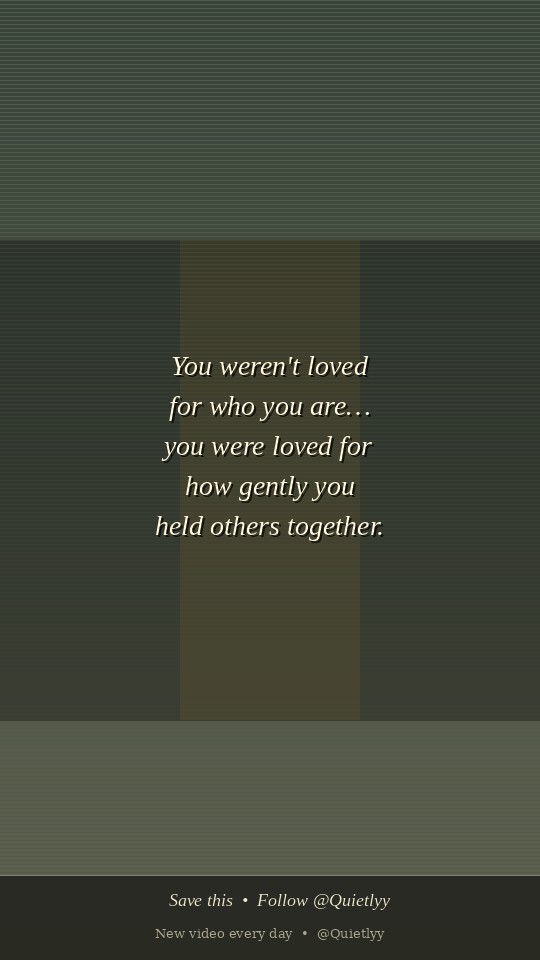
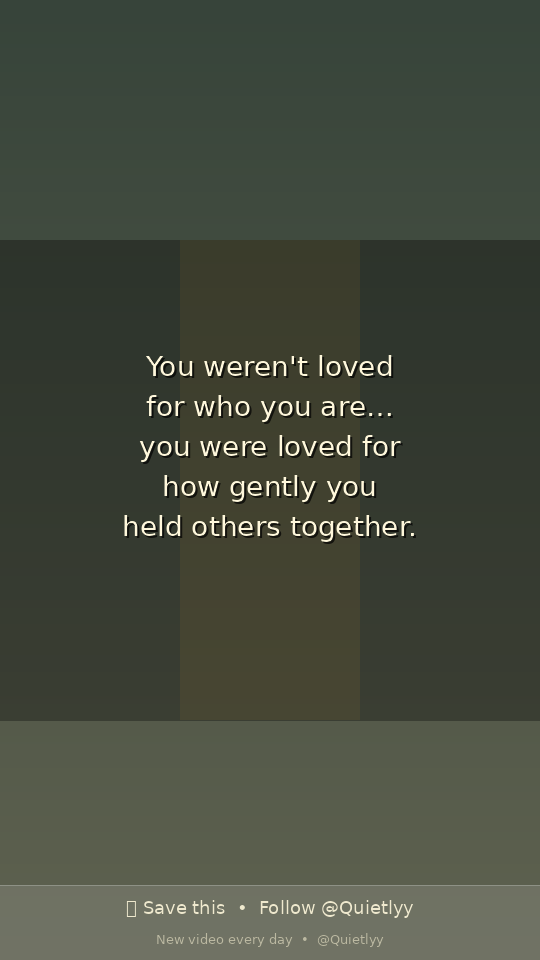
Win11 Acrylic glass pill: color-tinted blur + tight bottom margin
- Sample average color behind pill region → lighten/desaturate it
  for the tinted overlay (matches image color like Win11 Acrylic)
- GaussianBlur radius 14 behind pill, radius 12 behind CTA bar
- Reduced MARGIN 22→12px so pill sits tight to the bottom-right corner
- CTA bar also uses acrylic tint (sampled from bar region)
- Updated preview images in assets/previews/

https://claude.ai/code/session_018a9DgoDkRwRWf8uTuTieLK

Changed region(s): [[0.0, 0.0, 1.0, 0.125], [0.0, 0.9062, 1.0, 1.0], [0.2074, 0.375, 0.7704, 0.5625]]

diff --git a/scripts/compose_video.py b/scripts/compose_video.py
@@ -123,43 +123,60 @@ def _draw_cta_overlay(img):
 
 def _draw_follow_button(img):
     """
-    True frosted-glass 'Follow ↑' pill — bottom-right, panels 1+ only (not thumbnail).
-    1. Blurs the background region behind the pill (the 'frost')
-    2. Adds semi-transparent white overlay + visible white border
-    3. White text on top
+    Windows 11 Acrylic-style frosted-glass pill — bottom-right, panels 1+ only.
+    - Blurs the region behind the pill (Gaussian radius 14)
+    - Samples the average color of that region → tints the overlay with it
+      (like Win11 Acrylic: glass picks up the color behind it, not flat white)
+    - Thin bright border for edge definition
+    - Tight margin — pill sits close to the bottom edge
     """
     from PIL import ImageFilter
+    import colorsys
+
     draw_img = img.copy().convert("RGBA") if img.mode != "RGBA" else img.copy()
 
     btn_font = get_font(22)
     label = "Follow ↑"
-    tmp_draw = ImageDraw.Draw(draw_img)
-    bbox = tmp_draw.textbbox((0, 0), label, font=btn_font)
-    bw = bbox[2] - bbox[0]
-    bh = bbox[3] - bbox[1]
+    tmp = ImageDraw.Draw(draw_img)
+    bbox = tmp.textbbox((0, 0), label, font=btn_font)
+    bw, bh = bbox[2] - bbox[0], bbox[3] - bbox[1]
 
-    PAD_X, PAD_Y, MARGIN, RADIUS = 18, 10, 22, 16
+    PAD_X, PAD_Y, MARGIN, RADIUS = 16, 8, 12, 14  # tight margin → close to edge
     x0 = WIDTH - bw - PAD_X * 2 - MARGIN
     y0 = HEIGHT - bh - PAD_Y * 2 - MARGIN
     x1 = WIDTH - MARGIN
     y1 = HEIGHT - MARGIN
 
-    # Step 1 — blur the background region behind the pill (frost)
+    # Step 1 — Gaussian blur on background region
     region = draw_img.convert("RGB").crop((x0, y0, x1, y1))
-    blurred = region.filter(ImageFilter.GaussianBlur(radius=10))
+    blurred = region.filter(ImageFilter.GaussianBlur(radius=14))
+
+    # Step 2 — sample average color of the blurred region for tint
+    blurred_small = blurred.resize((1, 1))
+    avg_r, avg_g, avg_b = blurred_small.getpixel((0, 0))[:3]
+    # Lighten the sampled color slightly for the overlay (Win11 Acrylic brightening)
+    h, s, v = colorsys.rgb_to_hsv(avg_r / 255, avg_g / 255, avg_b / 255)
+    v = min(1.0, v + 0.30)  # brighten
+    s = max(0.0, s - 0.15)  # slightly desaturate for glass feel
+    tr, tg, tb = colorsys.hsv_to_rgb(h, s, v)
+    tint = (int(tr * 255), int(tg * 255), int(tb * 255))
+
+    # Step 3 — paste blurred region back
     rgb = draw_img.convert("RGB")
     rgb.paste(blurred, (x0, y0))
     draw_img = rgb.convert("RGBA")
 
-    # Step 2 — white glass overlay + border on top of blur
+    # Step 4 — tinted glass overlay + border
     overlay = Image.new("RGBA", draw_img.size, (0, 0, 0, 0))
     draw = ImageDraw.Draw(overlay)
-    draw.rounded_rectangle([x0, y0, x1, y1], radius=RADIUS, fill=(255, 255, 255, 80))
     draw.rounded_rectangle([x0, y0, x1, y1], radius=RADIUS,
-                            outline=(255, 255, 255, 180), width=2)
-    # Step 3 — white text
+                            fill=(*tint, 90))          # color-matched tint
+    draw.rounded_rectangle([x0, y0, x1, y1], radius=RADIUS,
+                            outline=(255, 255, 255, 160), width=2)  # bright border
+
+    # Step 5 — white text
     draw.text((x0 + PAD_X, y0 + PAD_Y - bbox[1]), label,
-              font=btn_font, fill=(255, 255, 255, 240))
+              font=btn_font, fill=(255, 255, 255, 245))
 
     result = Image.alpha_composite(draw_img, overlay)
     return result.convert("RGB")
